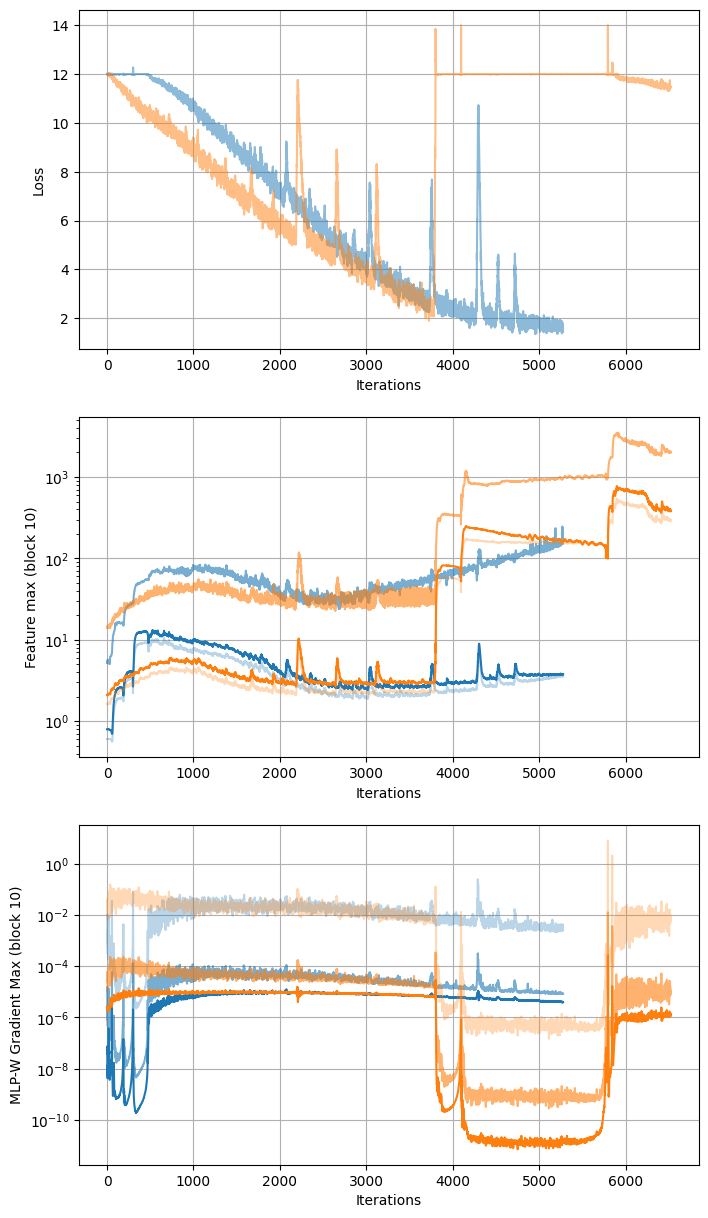
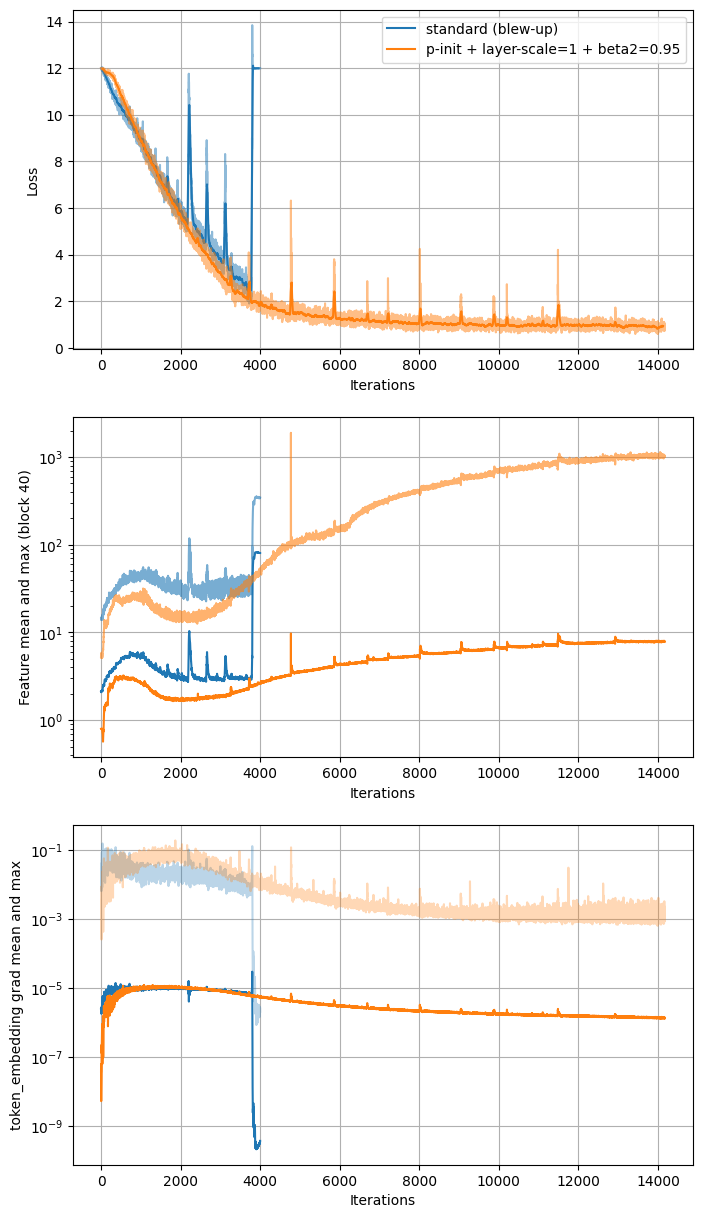
minor changes

diff --git a/plots/loss_plot.py b/plots/loss_plot.py
@@ -2,10 +2,12 @@ import matplotlib.pyplot as plt
 import pandas as pd
 import numpy as np
 
-def proc(df):
+def proc(df, lim):
     df.drop(df[df[0] == 0].index[1:], axis=0, inplace=True)
     df.drop_duplicates(0, keep='last', inplace=True)
-
+    if lim > 0:
+        df = df[df[0] < lim]
+    return df
 if __name__ == '__main__':
     kernel_size = 40
     min_loss = 14
@@ -16,26 +18,30 @@ if __name__ == '__main__':
 
     file_list = []
     file_list = [
-        'clip-bigG14-pd05-pinit-160k-2e-3-amp_bfloat16-v1',
-        'clip-bigG14-pd05-160k-2e-3-amp_bfloat16-v1',
-        'clip-bigG14-pd05-ls0-160k-2e-3-amp_bfloat16-v1'
+        #('clip-bigG14-pd05-pinit-160k-2e-3-amp_bfloat16-v1', 'p-init (blew-up)', 'C0', -1),
+        ('clip-bigG14-pd05-160k-2e-3-amp_bfloat16-v1', 'standard (blew-up)', 'C0', 4000),#3900),
+        #('clip-bigG14-pd05-ls0-160k-2e-3-amp_bfloat16-v1', 'layer-scale=0', 'C2', -1),
+        ('clip-bigG14-pd05-ls1-pinit-160k-2e-3-0.95-amp_bfloat16-v1', 'p-init + layer-scale=1 + beta2=0.95', 'C1', -1),
     ]
-    file_list = file_list[:2]
+    #file_list = file_list[1:2]
+    #file_list = file_list[:2]
 
     fig, axlist = plt.subplots(log_level, 1, figsize=(8, 5 * log_level))
-    for j, file in enumerate(file_list):
+    if log_level == 1:
+        axlist = [axlist]
+    for j, (file, name, color, lim) in enumerate(file_list):
 
         if log_level >= 1:
             ax = axlist[0]
             for i in range(1):
                 df = pd.read_csv(f'/fsx/home-mitchellw/experimetns/open_clip/{file}/data/{i}/loss.csv', names=list(range(2)))
-                proc(df)
-                ax.plot(df.iloc[:, 0], np.minimum(min_loss, df.iloc[:, 1]), alpha=0.5, color=f'C{j}')
+                df = proc(df, lim)
+                ax.plot(df.iloc[:, 0], np.minimum(min_loss, df.iloc[:, 1]), alpha=0.5, color=color)
                 
                 kernel = np.ones(kernel_size) / kernel_size
                 data_convolved = np.convolve(df.iloc[:, 1], kernel, mode='same')
                 data_convolved = data_convolved[kernel_size:-kernel_size]
-                #ax.plot(df.iloc[:, 0][kernel_size:-kernel_size], np.minimum(min_loss, data_convolved), color=f'C{j}')
+                ax.plot(df.iloc[:, 0][kernel_size:-kernel_size], np.minimum(min_loss, data_convolved), color=color, label=name)
                 ax.set_ylabel('Loss')
 
         
@@ -43,15 +49,15 @@ if __name__ == '__main__':
             ax = axlist[1]
             for i in range(1):
                 df = pd.read_csv(f'/fsx/home-mitchellw/experimetns/open_clip/{file}/data/{i}/features-module.visual.transformer.resblocks.40.csv', names=list(range(4)))
-                proc(df)
+                df = proc(df, lim)
                 #df = pd.read_csv(f'/fsx/home-mitchellw/experimetns/open_clip/{file}/data/{i}/features-module.transformer.resblocks.20.csv', names=list(range(4)))#.drop_duplicates(0, keep='last')
 
 
-                ax.plot(df.iloc[:, 0], df.iloc[:, 2], color=f'C{j}')
-                ax.plot(df.iloc[:, 0], df.iloc[:, 1], color=f'C{j}', alpha=0.3)
-                ax.plot(df.iloc[:, 0], df.iloc[:, 3], color=f'C{j}', alpha=0.6)
+                ax.plot(df.iloc[:, 0], df.iloc[:, 2], color=color)
+                #ax.plot(df.iloc[:, 0], df.iloc[:, 1], color=color, alpha=0.3)
+                ax.plot(df.iloc[:, 0], df.iloc[:, 3], color=color, alpha=0.6)
                 ax.set_yscale('log')
-                ax.set_ylabel('Feature max (block 10)')
+                ax.set_ylabel('Feature mean and max (block 40)')
 
                 
 
@@ -64,22 +70,26 @@ if __name__ == '__main__':
                 #layer = 'params-module.text_projection.csv' # NO!
                 layer = 'params-module.token_embedding.weight.csv'
                 df = pd.read_csv(f'/fsx/home-mitchellw/experimetns/open_clip/{file}/data/{i}/{layer}', names=list(range(13)))
-                proc(df)
-                ax.plot(df.iloc[:, 0], df.iloc[:, 4], color=f'C{j}')
-                ax.plot(df.iloc[:, 0], df.iloc[:, 5], color=f'C{j}', alpha=0.6)
-                ax.plot(df.iloc[:, 0], df.iloc[:, 6], color=f'C{j}', alpha=0.3)
+                df = proc(df, lim)
+                ax.plot(df.iloc[:, 0], df.iloc[:, 4], color=color)
+                #ax.plot(df.iloc[:, 0], df.iloc[:, 5], color=color, alpha=0.6)
+                ax.plot(df.iloc[:, 0], df.iloc[:, 6], color=color, alpha=0.3)
                 ax.set_yscale('log')
-                ax.set_ylabel('MLP-W Gradient Max (block 10)')
+                ax.set_ylabel('token_embedding grad mean and max')
 
 
 
-    for ax in axlist:
+    for j, ax in enumerate(axlist):
+        if j == 0:
+            ax.legend()
         ax.grid()
         ax.set_xlabel('Iterations')
-        vv = 3785
+        vv = 3787
         dd = 1e2
-        vv = 2186
-        dd = 1e3
+        # vv = 2186
+        # dd = 1e3
+        vv =8010
+        dd = 1e1
         continue
         ax.axvline(vv, linestyle='--', color='gray')
         ax.set_xlim(vv-dd, vv+dd)
